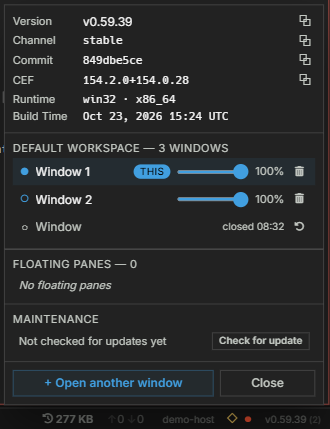
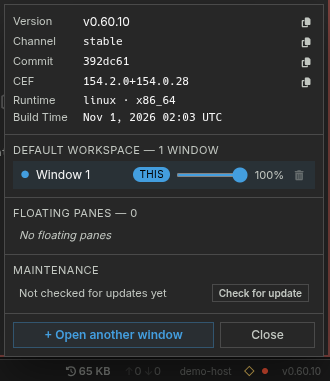
docs: retake five screenshots for 0.60.10
Agent: opaz@charlie

diff --git a/src/content/docs/first-agent.md b/src/content/docs/first-agent.md
@@ -105,7 +105,7 @@ Clicking a card opens a panel under it, pushing the cards below it down; click t
 
 There's no account field. The agent takes the provider's first account from [Connectors → Accounts](/connectors/#accounts), and you can change it later from the login email in the agent's composer strip (see [Changing an agent's account](/identity/#changing-an-agents-account)). If you have none, a provider that needs an account (see [Sign in](#sign-in)) asks you to sign in when the agent starts.
 
-![The panel under the Claude Code card: Name, Runtime, Model, Model Vendor / Custom Endpoint and Bundles, with Cancel and Create and start](../../assets/screenshots/agent/agent-create.png)
+![The panel under the Claude Code card, with Runtime set to Container: Name, Runtime, Container image, Model, Model Vendor / Custom Endpoint and Bundles, with Cancel and Create and start](../../assets/screenshots/agent/agent-create.png)
 
 Click **Create and start** (or press `Enter`). The agent is created and launched in the pane.
 
@@ -169,7 +169,7 @@ When an agent pane launches, AgentMux runs the CLI's own auth check. If the CLI 
 - **Login via terminal**: runs the login in a terminal window straight away.
 - **Connectors → Accounts**: opens the Connectors pane on its Accounts section. If you already have signed-in accounts for this provider, this action is replaced by **Use &lt;account&gt;** (one account) or **Use account…** (several), which attaches an existing account to this agent.
 
-![A new agent that isn't signed in: Not signed in, with Log in, Login via terminal, Bind: dev@acme.example, Copy error and Details](../../assets/screenshots/agent/agent-sign-in.png)
+![A new agent that isn't signed in: Not signed in, with Log in, Login via terminal, Use dev@acme.example, Copy error and Details](../../assets/screenshots/agent/agent-sign-in.png)
 
 For the five providers above, a successful login is saved as an account in Connectors → Accounts and bound to the agent. For the other providers, the login lands in AgentMux's shared folder for that provider. Aider is the exception: it has no login and no config-folder variable, so it reads model keys from the environment and keeps its own state in `~/.aider`. [Auth flows](/auth/) explains where credentials are kept.
 

diff --git a/src/content/docs/window.md b/src/content/docs/window.md
@@ -56,7 +56,7 @@ The mouse's Back and Forward side buttons re-select the panes you had selected b
 
 ## Status bar
 
-![The status bar: uptime, CPU, memory, page file, disk, network and disk activity, graphics mode, token usage, host name and version](../../assets/screenshots/chrome/chrome-status-bar.png)
+![The status bar: uptime, CPU, memory, disk, network and disk activity, graphics mode, history size, token usage, host name and version](../../assets/screenshots/chrome/chrome-status-bar.png)
 
 From left to right:
 
@@ -139,7 +139,7 @@ An agent can ask for an upgrade through the `App` tool, on this computer or, wit
 
 Closing a window keeps it in the workspace as a closed window (see [Workspaces](/workspaces/#windows-in-a-workspace)). See [Window appearance](/window-appearance/) for the opacity slider and [Report issues](/report-issues/) for what to copy into a bug report.
 
-![The instance panel: version, channel, commit, CEF, runtime and build time; the Default Workspace's 3 windows, Window 1 (this window) and Window 2 open, each with its opacity slider and trash button, and a closed window, greyed, with when it closed and Reopen; floating panes; maintenance with Check for update; and Open another window](../../assets/screenshots/chrome/chrome-status-instance.png)
+![The instance panel: version, channel, commit, CEF, runtime and build time; the Default Workspace's one window, Window 1 (this window), with its opacity slider and trash button; floating panes; maintenance with Check for update; and Open another window](../../assets/screenshots/chrome/chrome-status-instance.png)
 
 ## See also
 

diff --git a/src/content/docs/auth.md b/src/content/docs/auth.md
@@ -68,7 +68,7 @@ For Pi, Antigravity and the nine newest harnesses (Kilo Code CLI, Cline CLI, Ope
 
 When an agent pane launches, AgentMux runs the CLI's auth check. If it fails, the pane shows **Not signed in** with **Log in**, **Login via terminal**, and **Connectors → Accounts**. When an existing account for the provider can be used instead, the last action becomes **Use &lt;account&gt;** (one candidate) or **Use account…** (several). After a turn has been rejected for auth, **Log in** reads **Login Again**. See [First Agent Setup](/first-agent/#sign-in).
 
-![A new agent that isn't signed in: Not signed in, with Log in, Login via terminal, Bind: dev@acme.example, Copy error and Details](../../assets/screenshots/agent/agent-sign-in.png)
+![A new agent that isn't signed in: Not signed in, with Log in, Login via terminal, Use dev@acme.example, Copy error and Details](../../assets/screenshots/agent/agent-sign-in.png)
 
 **Log in** goes through `frontend/app/view/agent/flows/run-provider-login.ts` (`runProviderLogin`):
 

diff --git a/src/content/docs/window-appearance.md b/src/content/docs/window-appearance.md
@@ -28,7 +28,7 @@ There is one opacity per window. You can set it from two places, and they show t
 
 ![The hamburger menu's Opacity submenu: 100% down to 35% in 5% steps, the current value checked](../../assets/screenshots/chrome/chrome-hamburger-opacity.png)
 
-![The Instance Panel, with Window 1 and Window 2 each at 100% on their opacity sliders under Default Workspace, and a closed window below them](../../assets/screenshots/chrome/chrome-status-instance.png)
+![The Instance Panel, with Window 1 at 100% on its opacity slider under Default Workspace](../../assets/screenshots/chrome/chrome-status-instance.png)
 
 A choice in the menu moves the slider, and dragging the slider moves the menu's checkmark. A value between two steps, such as 72%, checks the nearest step (70%). The Instance Panel lists every open window, so you can also set another window's opacity from there.
 

diff --git a/.changesets/1793547697-docs-new-screenshots-of-the-status-bar-instance-panel-comman-ha7d.md b/.changesets/1793547697-docs-new-screenshots-of-the-status-bar-instance-panel-comman-ha7d.md
@@ -1,0 +1,5 @@
+---
+type: patch
+---
+
+Docs: new screenshots of the status bar, instance panel, command palette, new-agent panel and sign-in row from 0.60.10
